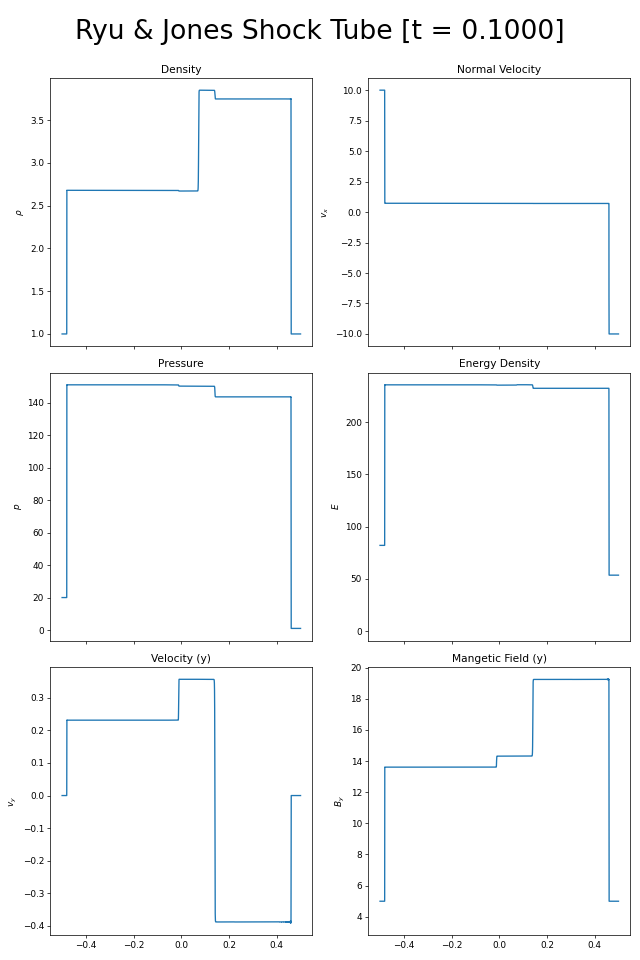
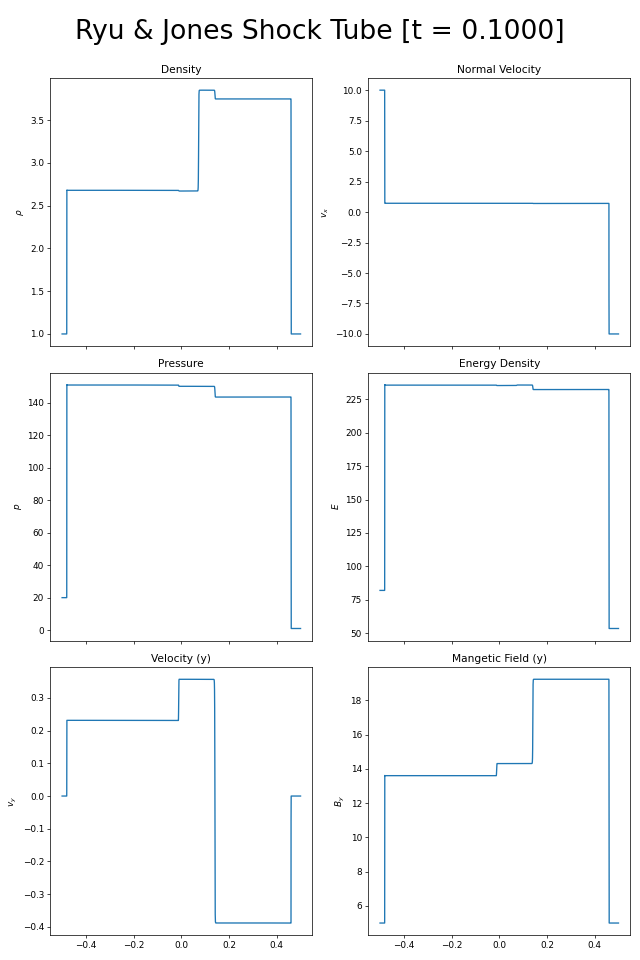
Regenerated MHD 1D tests to validate HLLD fixes. Also switched Brio-Wu to use minmod.

diff --git a/Examples/1D/Brio-Wu/Config.h b/Examples/1D/Brio-Wu/Config.h
@@ -81,7 +81,7 @@ constexpr double Timestep_Tolerance = 1e-14; //Timesteps smaller than this are t
         #define LIMITER_VANLEER 2 //Smooth, less diffusive than minmod with gentle behavior across smooth gradients
         #define LIMITER_SUPERBEE 3 //Very compressive, sharply preserves discontinuities but can be aggressive
         #define LIMITER_VANALBADA 4 //Smooth, reduces clipping near smooth extrema while remaining shock-safe
-    #define MUSCL_DEFAULT_LIMITER LIMITER_MC
+    #define MUSCL_DEFAULT_LIMITER LIMITER_MINMOD
 
 
 //MARK: File I/O

diff --git a/Examples/1D/README.md b/Examples/1D/README.md
@@ -12,19 +12,19 @@ For the Brio-Wu problem, be sure to also copy `Constants.h`, since that example 
 
 The examples initialize piecewise states directly in `Problem.cpp`.
 
-| Example |  MHD | Limiter | Left state | Both states | Right state |
+| Example |  MHD |  Left state | Both states | Right state |
 | --- | --- | --- | --- | --- |--- |
-| Sod | NO | MC | $\rho = 1.0$, $p = 1.0$| $v = 0$ | $\rho = 0.125$, $p = 0.1$ |
-| Lax | NO | MC | $\rho = 0.445$, $v_x = 0.698$ , $p = 3.528$| $v_y = v_z = 0$ |$\rho = 0.5$, $v_x = 0$, $p = 0.571$ |
-| Strong Shock | NO | MC | $p = 1000.0$ | $\rho = 1.0$, $v = 0$ | $p = 0.01$ |
-| Shu & Osher | NO | MC | $\rho = 3.857143$, $v_x = 2.629369$, $p = 10.333333$ | $v_y = v_z = 0$ | $\rho = 1.0 + 0.2 \sin(5x)$, $v_x = 0$, $p = 1.0$ |
-| Brio & Wu |  YES |MC | $\rho = 1.0$, $p = 1.0$, $B_y = \sqrt{4\pi}$ | $v = 0$, $B_x = 0.75\sqrt{4\pi}$,  $B_z = 0$| $\rho = 0.125$, $p = 0.1$,  $B_y = -\sqrt{4\pi}$ |
-| Dai & Woodward |  YES | MINMOD | $\rho = 1.08$, $v = (1.2, 0.01, 0.5)$, $p = 0.95$, $B_y = 3.6$ | $B_x = 2.0$, $B_z = 2.0$  |$\rho = 1.0$, $v = (0, 0, 0)$, $p = 1.0$, $B_y = 4.0$ |
-| Ryu & Jones |  YES |  MINMOD | $v_x = 10.0$, $p = 20.0$ | $\rho = 1.0$, $v_y = v_z = 0$, $B = (5, 5, 0)$ |  $v_x = -10.0$, $p = 1.0$,  |
+| Sod | NO | $\rho = 1.0$, $p = 1.0$| $v = 0$ | $\rho = 0.125$, $p = 0.1$ |
+| Lax | NO |  $\rho = 0.445$, $v_x = 0.698$ , $p = 3.528$| $v_y = v_z = 0$ |$\rho = 0.5$, $v_x = 0$, $p = 0.571$ |
+| Strong Shock | NO |  $p = 1000.0$ | $\rho = 1.0$, $v = 0$ | $p = 0.01$ |
+| Shu & Osher | NO |  $\rho = 3.857143$, $v_x = 2.629369$, $p = 10.333333$ | $v_y = v_z = 0$ | $\rho = 1.0 + 0.2 \sin(5x)$, $v_x = 0$, $p = 1.0$ |
+| Brio & Wu |  YES | $\rho = 1.0$, $p = 1.0$, $B_y = \sqrt{4\pi}$ | $v = 0$, $B_x = 0.75\sqrt{4\pi}$,  $B_z = 0$| $\rho = 0.125$, $p = 0.1$,  $B_y = -\sqrt{4\pi}$ |
+| Dai & Woodward |  YES  | $\rho = 1.08$, $v = (1.2, 0.01, 0.5)$, $p = 0.95$, $B_y = 3.6$ | $B_x = 2.0$, $B_z = 2.0$  |$\rho = 1.0$, $v = (0, 0, 0)$, $p = 1.0$, $B_y = 4.0$ |
+| Ryu & Jones |  YES |   $v_x = 10.0$, $p = 20.0$ | $\rho = 1.0$, $v_y = v_z = 0$, $B = (5, 5, 0)$ |  $v_x = -10.0$, $p = 1.0$,  |
 
 All examples use outflow boundary conditions. 
 
-The Riemann Solver was HLLC for pure hydrodynamics and HLLD for MHD. Most examples use the MC limiter, though the last two were instead run with MINMOD since MC produced spurious oscillations near strong shocks in those.
+The Riemann Solver was HLLC for pure hydrodynamics and HLLD for MHD. Hydrodynamic examples use the MC limiter, while the MHD examples instead use MINMOD since MC produced spurious oscillations near strong shocks in those.
 
 
 